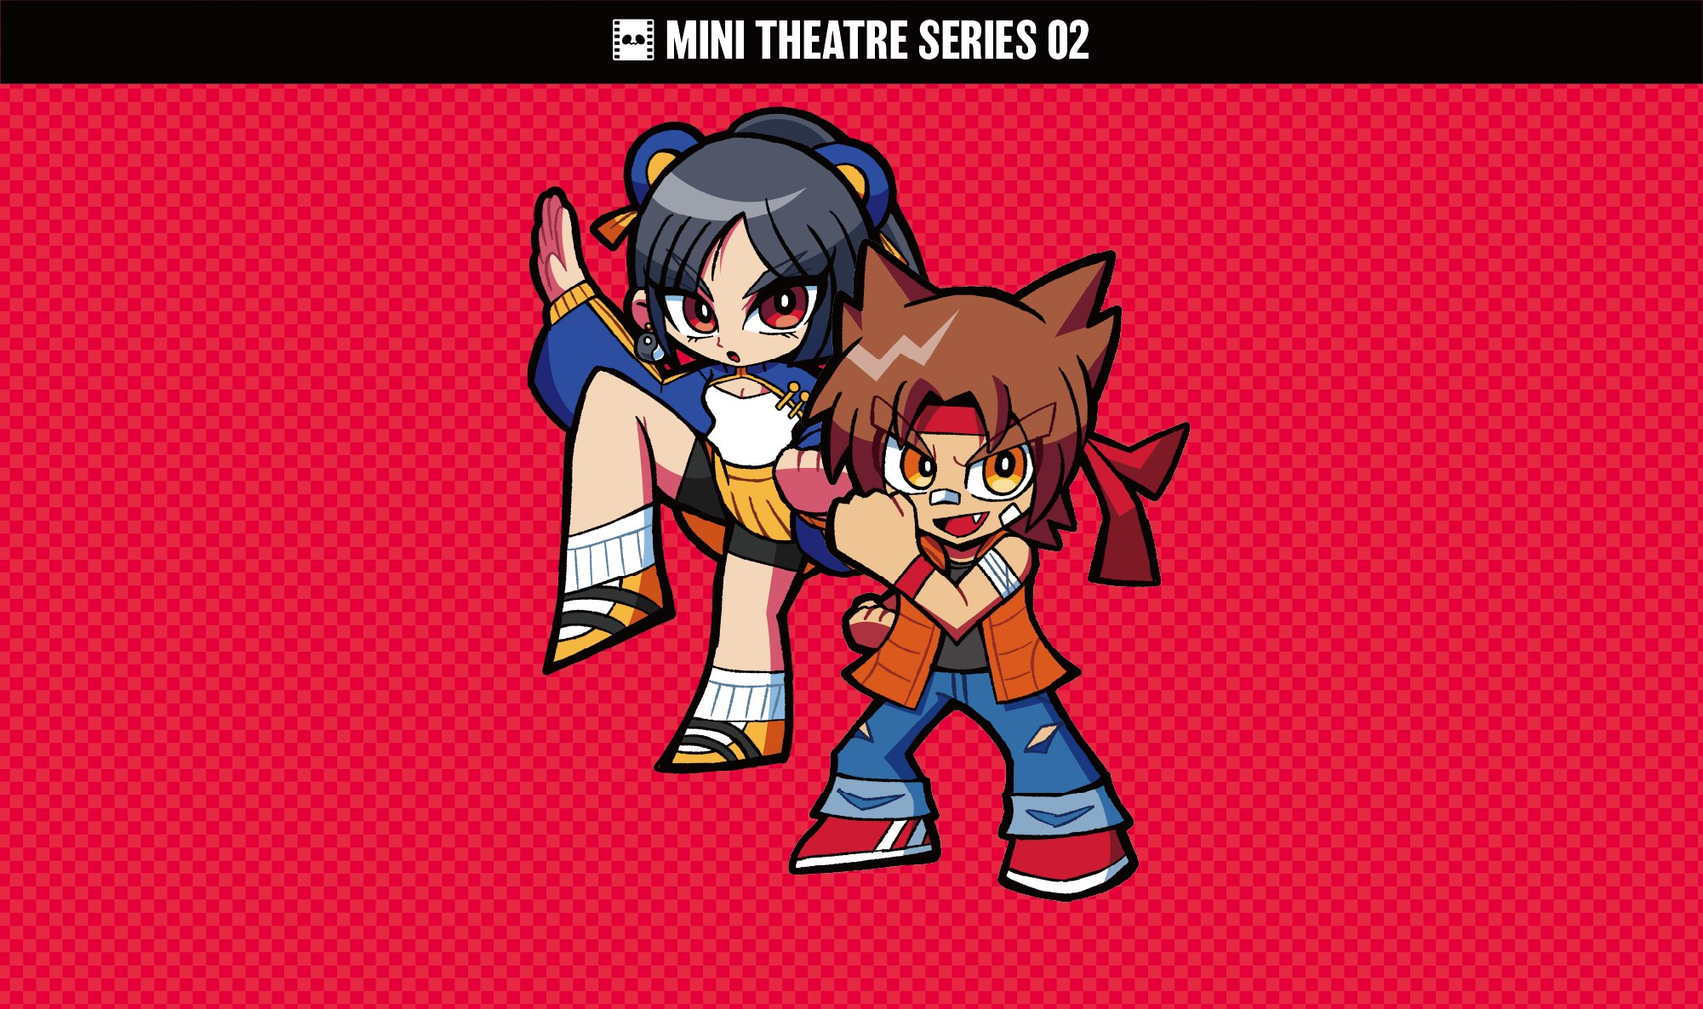
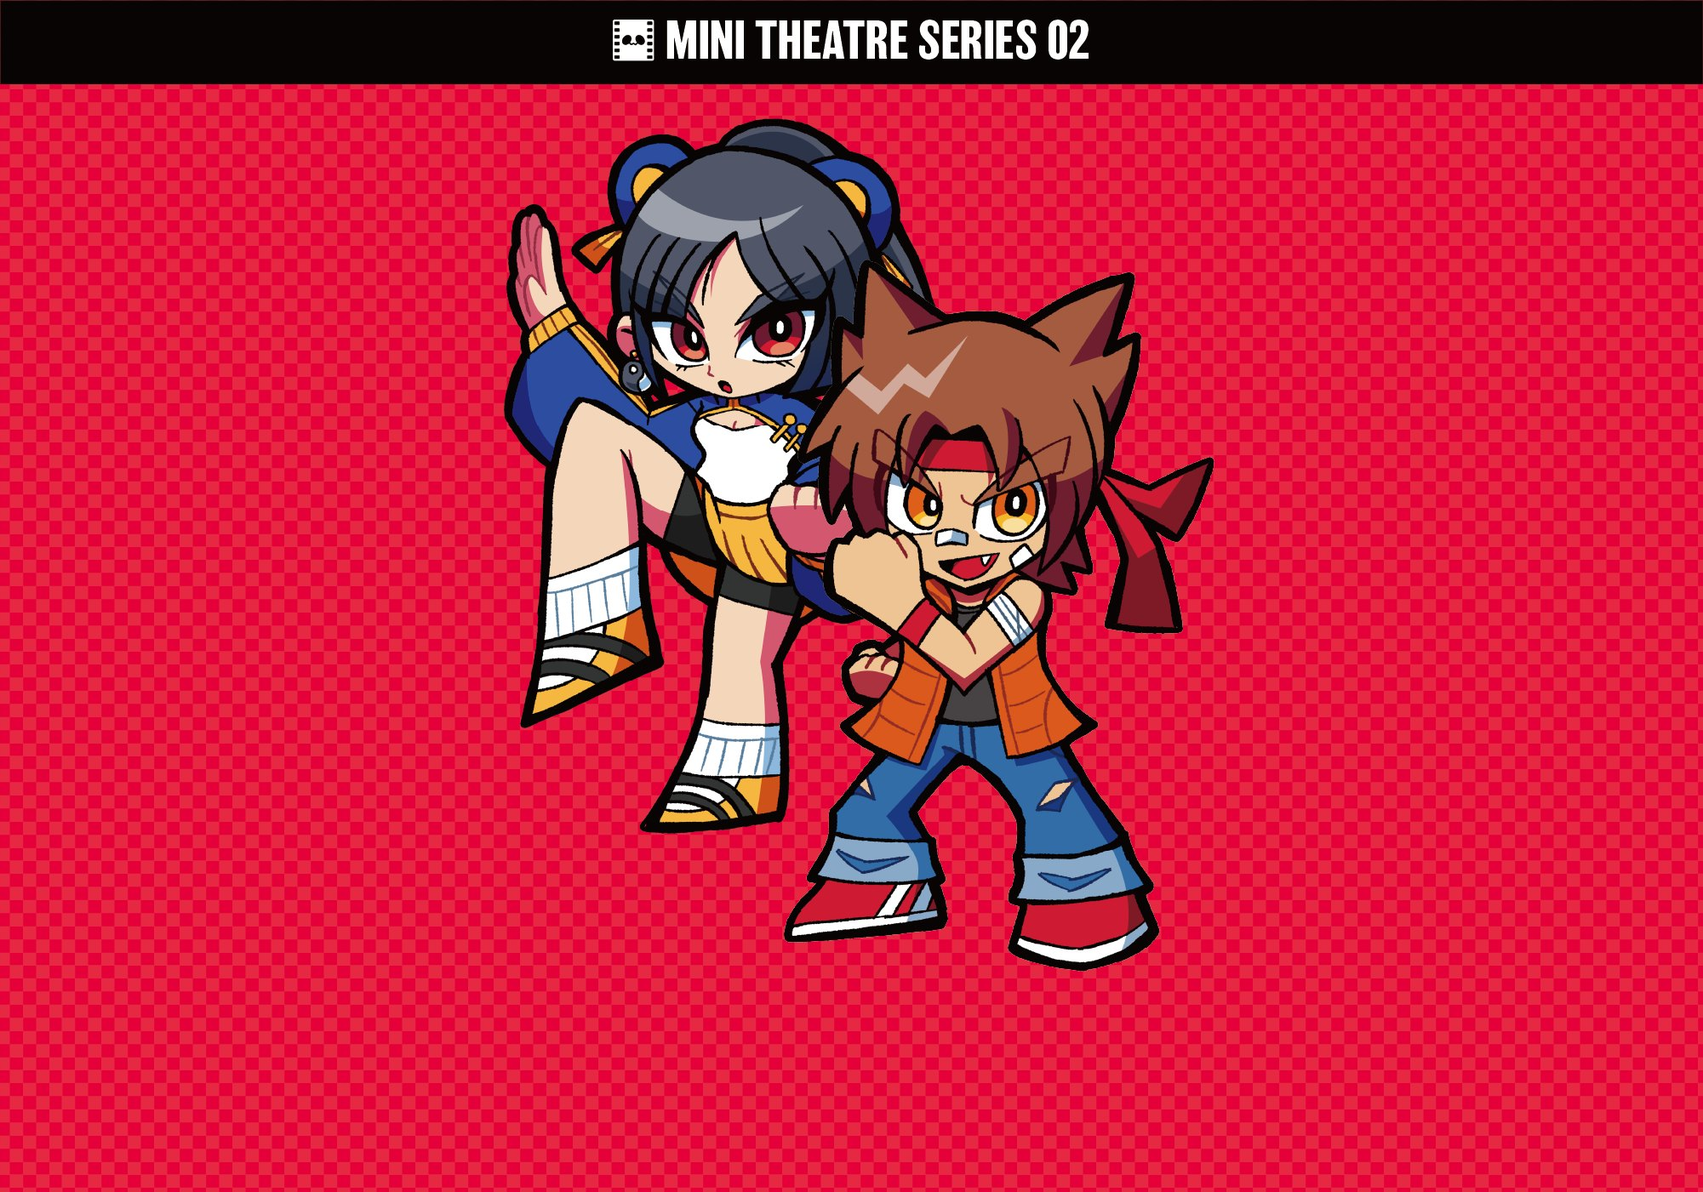
トップ画像を新しい絵(2000×1400)に/TRICO!とモコチャカは部品を動かす(アイコンがゆっくり回る、ガブは逆回り)
Claude-Session: https://claude.ai/code/session_01KGkDFCMk81Yp3xPHsDn5z8

diff --git a/new/games/moko/index.html b/new/games/moko/index.html
@@ -97,6 +97,17 @@
     .hero.hero-cover{color:var(--lt)}
     .hero.hero-cover .art{width:100%;height:100%;object-fit:cover;object-position:var(--art-pos,50% 50%);transform:scale(var(--zoom,1));transform-origin:var(--art-pos,50% 50%)}
     .hero.hero-cover{color:var(--hero-ink,var(--lt))}
+    /* 全面に敷いた絵+部品:絵と同じ切り取り方の箱の中に部品を置く(どの画面でも絵とぴったり重なる) */
+    .hero-art:has(.art-box){container-type:size;overflow:hidden}
+    .art-box{position:absolute;width:max(100cqw,calc(100cqh * var(--ar)));height:max(100cqh,calc(100cqw / var(--ar)));
+      left:calc((100cqw - max(100cqw,calc(100cqh * var(--ar)))) * var(--fx));top:calc((100cqh - max(100cqh,calc(100cqw / var(--ar)))) * var(--fy))}
+    .art-box .art-bg{position:absolute;inset:0;width:100%;height:100%}
+    .art-box .aly{position:absolute;left:var(--x);top:var(--y);width:var(--w);max-width:none;rotate:var(--r,0deg)}
+    @media all{
+      .aly.m-spin{animation:hfade .8s ease var(--dl) both,aspin var(--sp) linear infinite}
+      .aly.m-spin-r{animation:hfade .8s ease var(--dl) both,aspin var(--sp) linear infinite reverse}
+      @keyframes aspin{to{rotate:calc(var(--r,0deg) + 360deg)}}
+    }
     .hero.hero-cover.light .hero-art::after{display:none}   /* 明るい絵はぼかさない */
     .hero.hero-cover .hero-art::after{content:"";position:absolute;inset:0;background:linear-gradient(to bottom,color-mix(in srgb,var(--k-bg) 45%,transparent),transparent 16%,transparent 52%,color-mix(in srgb,var(--k-bg) 86%,transparent) 82%,var(--k-bg))}
     .hero.hero-stage{color:var(--hero-ink,var(--k-ink))}
@@ -718,8 +729,8 @@
 
 <main class="key">
   <!-- 1. メインビジュアル:パッケージの絵をそのまま大きく -->
-  <section class="hero hero-cover light" style="--lw:600px;--lar:5.3417;--hero-bg:#f4b4cb;--hero-ink:#39278b;--hero-ink:#39278b;--art-pos:50% 15%" aria-labelledby="title">
-    <div class="hero-art"><img class="art" src="../../img/page/moco_wide.png?v=ccf617c7" alt="" fetchpriority="high"></div>
+  <section class="hero hero-cover light" style="--lw:600px;--lar:5.3417;--hero-bg:#f4b4cb;--hero-ink:#39278b;--hero-ink:#39278b;--art-pos:50% 0%" aria-labelledby="title">
+    <div class="hero-art"><div class="art-box" style="--ar:1.4283;--fx:0.5;--fy:0"><img class="art-bg" src="../../img/page/moko_top_bg.png?v=69128f2c" alt="" fetchpriority="high"><img class="aly m-spin" style="--x:30.035%;--y:7.994%;--w:12.294%;--r:0deg;--dl:0.20s;--sp:26s" src="../../img/page/moko_top_p0.png?v=271eb815" alt=""><img class="aly m-spin-r" style="--x:43.528%;--y:7.066%;--w:12.894%;--r:0deg;--dl:0.32s;--sp:31s" src="../../img/page/moko_top_p1.png?v=57b5cf84" alt=""><img class="aly m-spin" style="--x:57.621%;--y:7.994%;--w:12.294%;--r:0deg;--dl:0.44s;--sp:36s" src="../../img/page/moko_top_p2.png?v=1114870f" alt=""><img class="aly m-spin" style="--x:30.085%;--y:27.052%;--w:12.244%;--r:0deg;--dl:0.56s;--sp:26s" src="../../img/page/moko_top_p3.png?v=2dedadcc" alt=""><img class="aly m-spin" style="--x:43.828%;--y:27.052%;--w:12.294%;--r:0deg;--dl:0.68s;--sp:31s" src="../../img/page/moko_top_p4.png?v=ee4b2358" alt=""><img class="aly m-spin" style="--x:57.621%;--y:27.052%;--w:12.244%;--r:0deg;--dl:0.80s;--sp:36s" src="../../img/page/moko_top_p5.png?v=4a1fe301" alt=""><img class="aly m-spin" style="--x:30.085%;--y:46.039%;--w:12.244%;--r:0deg;--dl:0.92s;--sp:26s" src="../../img/page/moko_top_p6.png?v=ccdd9801" alt=""><img class="aly m-spin-r" style="--x:43.528%;--y:45.111%;--w:12.894%;--r:0deg;--dl:1.04s;--sp:31s" src="../../img/page/moko_top_p7.png?v=c896b23a" alt=""><img class="aly m-spin" style="--x:57.621%;--y:46.039%;--w:12.244%;--r:0deg;--dl:1.16s;--sp:36s" src="../../img/page/moko_top_p8.png?v=fef32d81" alt=""></div></div>
     <div class="hero-copy">
       <div class="hero-main">
         

diff --git a/new/games/trico/index.html b/new/games/trico/index.html
@@ -97,6 +97,17 @@
     .hero.hero-cover{color:var(--lt)}
     .hero.hero-cover .art{width:100%;height:100%;object-fit:cover;object-position:var(--art-pos,50% 50%);transform:scale(var(--zoom,1));transform-origin:var(--art-pos,50% 50%)}
     .hero.hero-cover{color:var(--hero-ink,var(--lt))}
+    /* 全面に敷いた絵+部品:絵と同じ切り取り方の箱の中に部品を置く(どの画面でも絵とぴったり重なる) */
+    .hero-art:has(.art-box){container-type:size;overflow:hidden}
+    .art-box{position:absolute;width:max(100cqw,calc(100cqh * var(--ar)));height:max(100cqh,calc(100cqw / var(--ar)));
+      left:calc((100cqw - max(100cqw,calc(100cqh * var(--ar)))) * var(--fx));top:calc((100cqh - max(100cqh,calc(100cqw / var(--ar)))) * var(--fy))}
+    .art-box .art-bg{position:absolute;inset:0;width:100%;height:100%}
+    .art-box .aly{position:absolute;left:var(--x);top:var(--y);width:var(--w);max-width:none;rotate:var(--r,0deg)}
+    @media all{
+      .aly.m-spin{animation:hfade .8s ease var(--dl) both,aspin var(--sp) linear infinite}
+      .aly.m-spin-r{animation:hfade .8s ease var(--dl) both,aspin var(--sp) linear infinite reverse}
+      @keyframes aspin{to{rotate:calc(var(--r,0deg) + 360deg)}}
+    }
     .hero.hero-cover.light .hero-art::after{display:none}   /* 明るい絵はぼかさない */
     .hero.hero-cover .hero-art::after{content:"";position:absolute;inset:0;background:linear-gradient(to bottom,color-mix(in srgb,var(--k-bg) 45%,transparent),transparent 16%,transparent 52%,color-mix(in srgb,var(--k-bg) 86%,transparent) 82%,var(--k-bg))}
     .hero.hero-stage{color:var(--hero-ink,var(--k-ink))}
@@ -696,8 +707,8 @@
 
 <main class="key">
   <!-- 1. メインビジュアル:パッケージの絵をそのまま大きく -->
-  <section class="hero hero-cover light" style="--lw:449px;--lar:2.6728;--hero-bg:#fdd000;--hero-ink:#664498;--hero-ink:#664498;--art-pos:50% 50%" aria-labelledby="title">
-    <div class="hero-art"><img class="art" src="../../img/page/trico_top.png?v=49e43ead" alt="" fetchpriority="high"></div>
+  <section class="hero hero-cover light" style="--lw:449px;--lar:2.6728;--hero-bg:#fdd000;--hero-ink:#664498;--hero-ink:#664498;--art-pos:50% 0%" aria-labelledby="title">
+    <div class="hero-art"><div class="art-box" style="--ar:1.4283;--fx:0.5;--fy:0"><img class="art-bg" src="../../img/page/trico_top_bg.png?v=1773f796" alt="" fetchpriority="high"><img class="aly m-pop" style="--x:31.734%;--y:6.709%;--w:7.996%;--r:0deg;--dl:0.20s;--sp:26s" src="../../img/page/trico_top_p0.png?v=d67937a9" alt=""><img class="aly m-pop" style="--x:58.521%;--y:6.781%;--w:10.545%;--r:0deg;--dl:0.32s;--sp:31s" src="../../img/page/trico_top_p1.png?v=acd3a400" alt=""><img class="aly m-hop" style="--x:34.183%;--y:19.201%;--w:32.984%;--r:0deg;--dl:0.44s;--sp:36s" src="../../img/page/trico_top_p2.png?v=520db485" alt=""><img class="aly m-pop" style="--x:31.884%;--y:46.181%;--w:8.846%;--r:0deg;--dl:0.56s;--sp:26s" src="../../img/page/trico_top_p3.png?v=26f19fcd" alt=""></div></div>
     <div class="hero-copy">
       <div class="hero-main">
         

diff --git a/new/games/ikatako/index.html b/new/games/ikatako/index.html
@@ -96,6 +96,17 @@
     .hero.hero-cover{color:var(--lt)}
     .hero.hero-cover .art{width:100%;height:100%;object-fit:cover;object-position:var(--art-pos,50% 50%);transform:scale(var(--zoom,1));transform-origin:var(--art-pos,50% 50%)}
     .hero.hero-cover{color:var(--hero-ink,var(--lt))}
+    /* 全面に敷いた絵+部品:絵と同じ切り取り方の箱の中に部品を置く(どの画面でも絵とぴったり重なる) */
+    .hero-art:has(.art-box){container-type:size;overflow:hidden}
+    .art-box{position:absolute;width:max(100cqw,calc(100cqh * var(--ar)));height:max(100cqh,calc(100cqw / var(--ar)));
+      left:calc((100cqw - max(100cqw,calc(100cqh * var(--ar)))) * var(--fx));top:calc((100cqh - max(100cqh,calc(100cqw / var(--ar)))) * var(--fy))}
+    .art-box .art-bg{position:absolute;inset:0;width:100%;height:100%}
+    .art-box .aly{position:absolute;left:var(--x);top:var(--y);width:var(--w);max-width:none;rotate:var(--r,0deg)}
+    @media all{
+      .aly.m-spin{animation:hfade .8s ease var(--dl) both,aspin var(--sp) linear infinite}
+      .aly.m-spin-r{animation:hfade .8s ease var(--dl) both,aspin var(--sp) linear infinite reverse}
+      @keyframes aspin{to{rotate:calc(var(--r,0deg) + 360deg)}}
+    }
     .hero.hero-cover.light .hero-art::after{display:none}   /* 明るい絵はぼかさない */
     .hero.hero-cover .hero-art::after{content:"";position:absolute;inset:0;background:linear-gradient(to bottom,color-mix(in srgb,var(--k-bg) 45%,transparent),transparent 16%,transparent 52%,color-mix(in srgb,var(--k-bg) 86%,transparent) 82%,var(--k-bg))}
     .hero.hero-stage{color:var(--hero-ink,var(--k-ink))}
@@ -686,8 +697,8 @@
 
 <main class="key">
   <!-- 1. メインビジュアル:パッケージの絵をそのまま大きく -->
-  <section class="hero hero-cover light" style="--lw:600px;--lar:3.7353;--hero-bg:#0e3970;--hero-ink:#ffffff;--hero-ink:#ffffff;--art-pos:50% 50%" aria-labelledby="title">
-    <div class="hero-art"><img class="art" src="../../img/page/ikatako_top.jpg?v=3b63a131" alt="" fetchpriority="high"></div>
+  <section class="hero hero-cover light" style="--lw:600px;--lar:3.7353;--hero-bg:#0e396e;--hero-ink:#ffffff;--hero-ink:#ffffff;--art-pos:50% 0%" aria-labelledby="title">
+    <div class="hero-art"><img class="art" src="../../img/page/ikatako_top.jpg?v=57838fea" alt="" fetchpriority="high"></div>
     <div class="hero-copy">
       <div class="hero-main">
         

diff --git a/new/games/bibilu/index.html b/new/games/bibilu/index.html
@@ -97,6 +97,17 @@
     .hero.hero-cover{color:var(--lt)}
     .hero.hero-cover .art{width:100%;height:100%;object-fit:cover;object-position:var(--art-pos,50% 50%);transform:scale(var(--zoom,1));transform-origin:var(--art-pos,50% 50%)}
     .hero.hero-cover{color:var(--hero-ink,var(--lt))}
+    /* 全面に敷いた絵+部品:絵と同じ切り取り方の箱の中に部品を置く(どの画面でも絵とぴったり重なる) */
+    .hero-art:has(.art-box){container-type:size;overflow:hidden}
+    .art-box{position:absolute;width:max(100cqw,calc(100cqh * var(--ar)));height:max(100cqh,calc(100cqw / var(--ar)));
+      left:calc((100cqw - max(100cqw,calc(100cqh * var(--ar)))) * var(--fx));top:calc((100cqh - max(100cqh,calc(100cqw / var(--ar)))) * var(--fy))}
+    .art-box .art-bg{position:absolute;inset:0;width:100%;height:100%}
+    .art-box .aly{position:absolute;left:var(--x);top:var(--y);width:var(--w);max-width:none;rotate:var(--r,0deg)}
+    @media all{
+      .aly.m-spin{animation:hfade .8s ease var(--dl) both,aspin var(--sp) linear infinite}
+      .aly.m-spin-r{animation:hfade .8s ease var(--dl) both,aspin var(--sp) linear infinite reverse}
+      @keyframes aspin{to{rotate:calc(var(--r,0deg) + 360deg)}}
+    }
     .hero.hero-cover.light .hero-art::after{display:none}   /* 明るい絵はぼかさない */
     .hero.hero-cover .hero-art::after{content:"";position:absolute;inset:0;background:linear-gradient(to bottom,color-mix(in srgb,var(--k-bg) 45%,transparent),transparent 16%,transparent 52%,color-mix(in srgb,var(--k-bg) 86%,transparent) 82%,var(--k-bg))}
     .hero.hero-stage{color:var(--hero-ink,var(--k-ink))}
@@ -634,8 +645,8 @@
 
 <main class="key">
   <!-- 1. メインビジュアル:パッケージの絵をそのまま大きく -->
-  <section class="hero hero-cover light" style="--lw:600px;--lar:3.6066;--hero-bg:#6aaa9a;--hero-ink:#1b2228;--hero-ink:#fff5d7;--art-pos:50% 50%" aria-labelledby="title">
-    <div class="hero-art"><img class="art" src="../../img/page/bibilu_top.jpg?v=51826b97" alt="" fetchpriority="high"></div>
+  <section class="hero hero-cover light" style="--lw:600px;--lar:3.6066;--hero-bg:#5ca498;--hero-ink:#1b2228;--hero-ink:#ffffff;--art-pos:50% 0%" aria-labelledby="title">
+    <div class="hero-art"><img class="art" src="../../img/page/bibilu_top.jpg?v=213f4f4f" alt="" fetchpriority="high"></div>
     <div class="hero-copy">
       <div class="hero-main">
         

diff --git a/new/games/bash/index.html b/new/games/bash/index.html
@@ -96,6 +96,17 @@
     .hero.hero-cover{color:var(--lt)}
     .hero.hero-cover .art{width:100%;height:100%;object-fit:cover;object-position:var(--art-pos,50% 50%);transform:scale(var(--zoom,1));transform-origin:var(--art-pos,50% 50%)}
     .hero.hero-cover{color:var(--hero-ink,var(--lt))}
+    /* 全面に敷いた絵+部品:絵と同じ切り取り方の箱の中に部品を置く(どの画面でも絵とぴったり重なる) */
+    .hero-art:has(.art-box){container-type:size;overflow:hidden}
+    .art-box{position:absolute;width:max(100cqw,calc(100cqh * var(--ar)));height:max(100cqh,calc(100cqw / var(--ar)));
+      left:calc((100cqw - max(100cqw,calc(100cqh * var(--ar)))) * var(--fx));top:calc((100cqh - max(100cqh,calc(100cqw / var(--ar)))) * var(--fy))}
+    .art-box .art-bg{position:absolute;inset:0;width:100%;height:100%}
+    .art-box .aly{position:absolute;left:var(--x);top:var(--y);width:var(--w);max-width:none;rotate:var(--r,0deg)}
+    @media all{
+      .aly.m-spin{animation:hfade .8s ease var(--dl) both,aspin var(--sp) linear infinite}
+      .aly.m-spin-r{animation:hfade .8s ease var(--dl) both,aspin var(--sp) linear infinite reverse}
+      @keyframes aspin{to{rotate:calc(var(--r,0deg) + 360deg)}}
+    }
     .hero.hero-cover.light .hero-art::after{display:none}   /* 明るい絵はぼかさない */
     .hero.hero-cover .hero-art::after{content:"";position:absolute;inset:0;background:linear-gradient(to bottom,color-mix(in srgb,var(--k-bg) 45%,transparent),transparent 16%,transparent 52%,color-mix(in srgb,var(--k-bg) 86%,transparent) 82%,var(--k-bg))}
     .hero.hero-stage{color:var(--hero-ink,var(--k-ink))}
@@ -667,8 +678,8 @@
 
 <main class="key">
   <!-- 1. メインビジュアル:パッケージの絵をそのまま大きく -->
-  <section class="hero hero-cover light" style="--lw:213px;--lar:1.2653;--hero-bg:#080403;--hero-ink:#ffffff;--hero-ink:#ffffff;--art-pos:50% 0%" aria-labelledby="title">
-    <div class="hero-art"><img class="art" src="../../img/page/bash_top.jpg?v=fd42a93e" alt="" fetchpriority="high"></div>
+  <section class="hero hero-cover light" style="--lw:213px;--lar:1.2653;--hero-bg:#090305;--hero-ink:#ffffff;--hero-ink:#ffffff;--art-pos:50% 0%" aria-labelledby="title">
+    <div class="hero-art"><img class="art" src="../../img/page/bash_top.jpg?v=26bceaab" alt="" fetchpriority="high"></div>
     <div class="hero-copy">
       <div class="hero-main">
         

diff --git a/new/games/koikoi/index.html b/new/games/koikoi/index.html
@@ -96,6 +96,17 @@
     .hero.hero-cover{color:var(--lt)}
     .hero.hero-cover .art{width:100%;height:100%;object-fit:cover;object-position:var(--art-pos,50% 50%);transform:scale(var(--zoom,1));transform-origin:var(--art-pos,50% 50%)}
     .hero.hero-cover{color:var(--hero-ink,var(--lt))}
+    /* 全面に敷いた絵+部品:絵と同じ切り取り方の箱の中に部品を置く(どの画面でも絵とぴったり重なる) */
+    .hero-art:has(.art-box){container-type:size;overflow:hidden}
+    .art-box{position:absolute;width:max(100cqw,calc(100cqh * var(--ar)));height:max(100cqh,calc(100cqw / var(--ar)));
+      left:calc((100cqw - max(100cqw,calc(100cqh * var(--ar)))) * var(--fx));top:calc((100cqh - max(100cqh,calc(100cqw / var(--ar)))) * var(--fy))}
+    .art-box .art-bg{position:absolute;inset:0;width:100%;height:100%}
+    .art-box .aly{position:absolute;left:var(--x);top:var(--y);width:var(--w);max-width:none;rotate:var(--r,0deg)}
+    @media all{
+      .aly.m-spin{animation:hfade .8s ease var(--dl) both,aspin var(--sp) linear infinite}
+      .aly.m-spin-r{animation:hfade .8s ease var(--dl) both,aspin var(--sp) linear infinite reverse}
+      @keyframes aspin{to{rotate:calc(var(--r,0deg) + 360deg)}}
+    }
     .hero.hero-cover.light .hero-art::after{display:none}   /* 明るい絵はぼかさない */
     .hero.hero-cover .hero-art::after{content:"";position:absolute;inset:0;background:linear-gradient(to bottom,color-mix(in srgb,var(--k-bg) 45%,transparent),transparent 16%,transparent 52%,color-mix(in srgb,var(--k-bg) 86%,transparent) 82%,var(--k-bg))}
     .hero.hero-stage{color:var(--hero-ink,var(--k-ink))}
@@ -680,7 +691,7 @@
 <main class="key">
   <!-- 1. メインビジュアル:パッケージの絵をそのまま大きく -->
   <section class="hero hero-cover light" style="--lw:325px;--lar:1.9330;--hero-bg:#080403;--hero-ink:#ffffff;--hero-ink:#1b2228;--art-pos:50% 0%" aria-labelledby="title">
-    <div class="hero-art"><img class="art" src="../../img/page/koikoi_top.jpg?v=11ae244e" alt="" fetchpriority="high"></div>
+    <div class="hero-art"><img class="art" src="../../img/page/koikoi_top.jpg?v=341e8378" alt="" fetchpriority="high"></div>
     <div class="hero-copy">
       <div class="hero-main">
         

diff --git a/build/game_pages.py b/build/game_pages.py
@@ -3,7 +3,8 @@
 # このファイルには、各作品のデザイン(色・背景・遊び方の図の動き)が入っています。新しい作品のページを足すときは GAMES に追加します。
 # 手元で動かすとき:  pip install pyyaml pillow  →  python build/game_pages.py
 #
-# パンダキネマ 作品ページ 共通フォーマット v32
+# パンダキネマ 作品ページ 共通フォーマット v33
+#     v33: 全面の絵の上で部品を動かす(TRICO!=鳥と宝石、モコチャカ=アイコンが回る)
 #     v32: トップは画面の高さいっぱい、ロゴを画面の高さに合わせて大きく
 #     v31: トップ画像の下からのぼかしをなくす
 #     v30: トップ画像(横長)を全作品に。明るい絵は下をぼかさない/絵の拡大(zoom)
@@ -86,6 +87,11 @@ def num(v, default):
         return float(v)
     except (TypeError, ValueError):
         return default
+def aw_ah(f):
+    from PIL import Image
+    with Image.open(os.path.join(WEB, imgname(f))) as im:
+        return im.width / im.height
+
 def hero(g, d, t):
     """メインビジュアル(編集画面の「メインビジュアル」)
     ・背景の絵:画面いっぱいに敷く(ビビルの塔)
@@ -112,7 +118,10 @@ def hero(g, d, t):
             fg = max((M, A, '#1b2228', '#ffffff'), key=lambda x: (contrast(x, hbg) >= 4.5, x in (M, A), contrast(x, hbg)))
             style.append('--hero-bg:%s;--hero-ink:%s' % (hbg, fg))
     art_wide = False
-    if h.get('art') and not [x for x in (h.get('layers') or []) if x.get('image')]:   # 部品(Claudeが設定)があればそちらを優先。トップ画像は見本   # トップ画像:横長なら全面に敷く、縦長・正方形なら背景の色の上に置く
+    cover_layers = str(h.get('fit') or '') == 'cover' and h.get('art') and [x for x in (h.get('layers') or []) if x.get('image')]
+    if cover_layers:   # 全面に敷いた絵の上で、切り抜いた部品を動かす(位置は絵に対する %)
+        art_wide = True
+    elif h.get('art') and not [x for x in (h.get('layers') or []) if x.get('image')]:   # 部品(Claudeが設定)があればそちらを優先。トップ画像は見本   # トップ画像:横長なら全面に敷く、縦長・正方形なら背景の色の上に置く
         from PIL import Image
         with Image.open(os.path.join(WEB, imgname(h['art']))) as im:
             aw, ah = im.size
@@ -135,6 +144,15 @@ def hero(g, d, t):
         if h.get('zoom'):
             style.append('--zoom:%g' % num(h['zoom'], 1))
         g['hero_art'] = '<div class="hero-art"><img class="art" src="{{img:%s}}" alt="" fetchpriority="high"></div>' % imgname(h['art'])
+        if cover_layers:
+            pos = (str(h.get('art_pos') or '50% 50%').split() + ['50%'])[:2]
+            fx, fy = (num(v.rstrip('%'), 50) / 100 for v in pos)
+            out = []
+            for i, x in enumerate(cover_layers):
+                mo = str(x.get('motion') or 'none')
+                st = '--x:%g%%;--y:%g%%;--w:%g%%;--r:%gdeg;--dl:%.2fs;--sp:%gs' % (num(x.get('x'), 0), num(x.get('y'), 0), num(x.get('width'), 20), num(x.get('rotate'), 0), .2 + .12 * i, num(x.get('speed'), 0) or 26 + (i % 3) * 5)
+                out.append('<img class="aly%s" style="%s" src="{{img:%s}}" alt="">' % ('' if mo == 'none' else ' m-' + mo, st, imgname(x['image'])))
+            g['hero_art'] = '<div class="hero-art"><div class="art-box" style="--ar:%.4f;--fx:%g;--fy:%g"><img class="art-bg" src="{{img:%s}}" alt="" fetchpriority="high">%s</div></div>' % (aw_ah(h['art']), fx, fy, imgname(h['art']), ''.join(out))
         g['hero_visual'] = ''
         if h.get('art_pos'):
             style.append('--art-pos:%s' % str(h['art_pos']))
@@ -1055,6 +1073,17 @@ TEMPLATE = r'''<!doctype html>
     .hero.hero-cover{color:var(--lt)}
     .hero.hero-cover .art{width:100%;height:100%;object-fit:cover;object-position:var(--art-pos,50% 50%);transform:scale(var(--zoom,1));transform-origin:var(--art-pos,50% 50%)}
     .hero.hero-cover{color:var(--hero-ink,var(--lt))}
+    /* 全面に敷いた絵+部品:絵と同じ切り取り方の箱の中に部品を置く(どの画面でも絵とぴったり重なる) */
+    .hero-art:has(.art-box){container-type:size;overflow:hidden}
+    .art-box{position:absolute;width:max(100cqw,calc(100cqh * var(--ar)));height:max(100cqh,calc(100cqw / var(--ar)));
+      left:calc((100cqw - max(100cqw,calc(100cqh * var(--ar)))) * var(--fx));top:calc((100cqh - max(100cqh,calc(100cqw / var(--ar)))) * var(--fy))}
+    .art-box .art-bg{position:absolute;inset:0;width:100%;height:100%}
+    .art-box .aly{position:absolute;left:var(--x);top:var(--y);width:var(--w);max-width:none;rotate:var(--r,0deg)}
+    @media all{
+      .aly.m-spin{animation:hfade .8s ease var(--dl) both,aspin var(--sp) linear infinite}
+      .aly.m-spin-r{animation:hfade .8s ease var(--dl) both,aspin var(--sp) linear infinite reverse}
+      @keyframes aspin{to{rotate:calc(var(--r,0deg) + 360deg)}}
+    }
     .hero.hero-cover.light .hero-art::after{display:none}   /* 明るい絵はぼかさない */
     .hero.hero-cover .hero-art::after{content:"";position:absolute;inset:0;background:linear-gradient(to bottom,color-mix(in srgb,var(--k-bg) 45%,transparent),transparent 16%,transparent 52%,color-mix(in srgb,var(--k-bg) 86%,transparent) 82%,var(--k-bg))}
     .hero.hero-stage{color:var(--hero-ink,var(--k-ink))}
